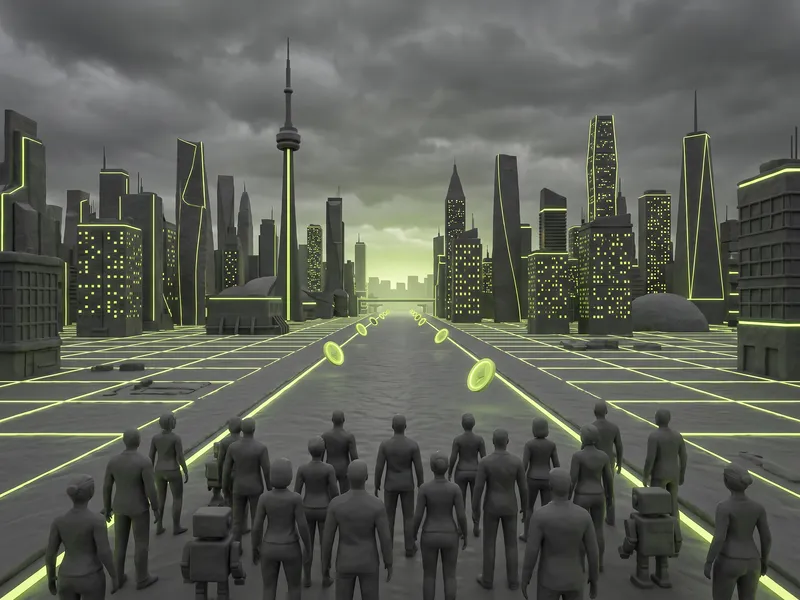
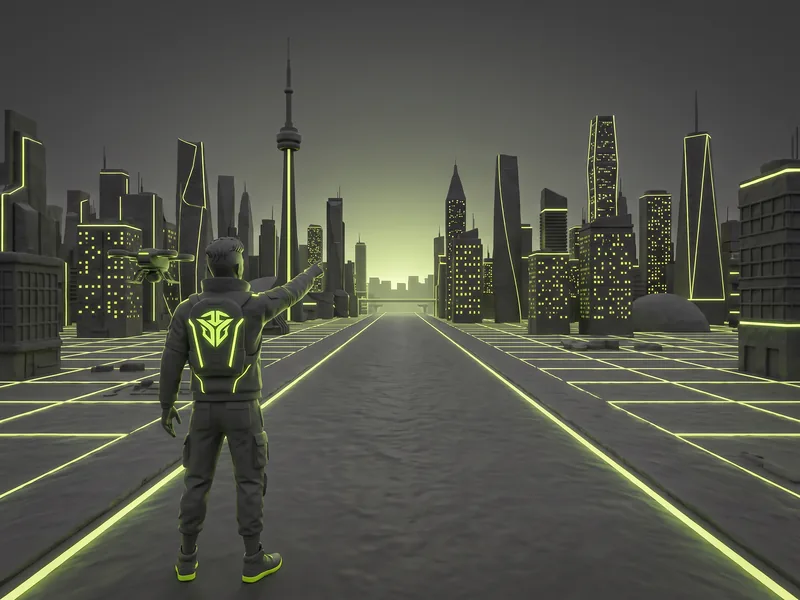
Кейс Metaverse: новое фото — герой со спины указывает на башню, тёмный графит с салатовым, alt

diff --git a/h10.html b/h10.html
@@ -571,7 +571,7 @@ html.js .hero.in h1 .ln:nth-child(2)>span{transition-delay:.12s}
         </div>
       </article>
       <article class="case">
-        <img class="shot" src="img/case-metaverse-800.webp" srcset="img/case-metaverse-800.webp 800w, img/case-metaverse-1200.webp 1200w" sizes="(max-width:860px) 100vw, 620px" width="1200" height="900" alt="Crowd of avatars facing a metaverse city with glowing land plots and floating tokens" loading="lazy" decoding="async">
+        <img class="shot" src="img/case-metaverse-800.webp" srcset="img/case-metaverse-800.webp 800w, img/case-metaverse-1200.webp 1200w" sizes="(max-width:860px) 100vw, 620px" width="1200" height="900" alt="Avatar with a glowing backpack pointing at a needle tower down a neon-lined avenue of a metaverse city" loading="lazy" decoding="async">
         <div class="body">
           <div class="top"><span>Crypto, Web3, GameFi</span><span>UAE</span></div>
           <h4>Launching a play-to-earn metaverse with creator Stories</h4>

diff --git a/h11.html b/h11.html
@@ -571,7 +571,7 @@ html.js .hero.in h1 .ln:nth-child(2)>span{transition-delay:.12s}
         </div>
       </article>
       <article class="case">
-        <img class="shot" src="img/case-metaverse-800.webp" srcset="img/case-metaverse-800.webp 800w, img/case-metaverse-1200.webp 1200w" sizes="(max-width:860px) 100vw, 620px" width="1200" height="900" alt="Crowd of avatars facing a metaverse city with glowing land plots and floating tokens" loading="lazy" decoding="async">
+        <img class="shot" src="img/case-metaverse-800.webp" srcset="img/case-metaverse-800.webp 800w, img/case-metaverse-1200.webp 1200w" sizes="(max-width:860px) 100vw, 620px" width="1200" height="900" alt="Avatar with a glowing backpack pointing at a needle tower down a neon-lined avenue of a metaverse city" loading="lazy" decoding="async">
         <div class="body">
           <div class="top"><span>Crypto, Web3, GameFi</span><span>UAE</span></div>
           <h4>Launching a play-to-earn metaverse with creator Stories</h4>

diff --git a/h12.html b/h12.html
@@ -571,7 +571,7 @@ html.js .hero.in h1 .ln:nth-child(2)>span{transition-delay:.12s}
         </div>
       </article>
       <article class="case">
-        <img class="shot" src="img/case-metaverse-800.webp" srcset="img/case-metaverse-800.webp 800w, img/case-metaverse-1200.webp 1200w" sizes="(max-width:860px) 100vw, 620px" width="1200" height="900" alt="Crowd of avatars facing a metaverse city with glowing land plots and floating tokens" loading="lazy" decoding="async">
+        <img class="shot" src="img/case-metaverse-800.webp" srcset="img/case-metaverse-800.webp 800w, img/case-metaverse-1200.webp 1200w" sizes="(max-width:860px) 100vw, 620px" width="1200" height="900" alt="Avatar with a glowing backpack pointing at a needle tower down a neon-lined avenue of a metaverse city" loading="lazy" decoding="async">
         <div class="body">
           <div class="top"><span>Crypto, Web3, GameFi</span><span>UAE</span></div>
           <h4>Launching a play-to-earn metaverse with creator Stories</h4>

diff --git a/h13.html b/h13.html
@@ -571,7 +571,7 @@ html.js .hero.in h1 .ln:nth-child(2)>span{transition-delay:.12s}
         </div>
       </article>
       <article class="case">
-        <img class="shot" src="img/case-metaverse-800.webp" srcset="img/case-metaverse-800.webp 800w, img/case-metaverse-1200.webp 1200w" sizes="(max-width:860px) 100vw, 620px" width="1200" height="900" alt="Crowd of avatars facing a metaverse city with glowing land plots and floating tokens" loading="lazy" decoding="async">
+        <img class="shot" src="img/case-metaverse-800.webp" srcset="img/case-metaverse-800.webp 800w, img/case-metaverse-1200.webp 1200w" sizes="(max-width:860px) 100vw, 620px" width="1200" height="900" alt="Avatar with a glowing backpack pointing at a needle tower down a neon-lined avenue of a metaverse city" loading="lazy" decoding="async">
         <div class="body">
           <div class="top"><span>Crypto, Web3, GameFi</span><span>UAE</span></div>
           <h4>Launching a play-to-earn metaverse with creator Stories</h4>

diff --git a/h14.html b/h14.html
@@ -575,7 +575,7 @@ html.js .hero.in h1 .ln:nth-child(2)>span{transition-delay:.12s}
         </div>
       </article>
       <article class="case">
-        <img class="shot" src="img/case-metaverse-800.webp" srcset="img/case-metaverse-800.webp 800w, img/case-metaverse-1200.webp 1200w" sizes="(max-width:860px) 100vw, 620px" width="1200" height="900" alt="Crowd of avatars facing a metaverse city with glowing land plots and floating tokens" loading="lazy" decoding="async">
+        <img class="shot" src="img/case-metaverse-800.webp" srcset="img/case-metaverse-800.webp 800w, img/case-metaverse-1200.webp 1200w" sizes="(max-width:860px) 100vw, 620px" width="1200" height="900" alt="Avatar with a glowing backpack pointing at a needle tower down a neon-lined avenue of a metaverse city" loading="lazy" decoding="async">
         <div class="body">
           <div class="top"><span>Crypto, Web3, GameFi</span><span>UAE</span></div>
           <h4>Launching a play-to-earn metaverse with creator Stories</h4>

diff --git a/h15.html b/h15.html
@@ -562,7 +562,7 @@ html.js .hero.in h1 .ln:nth-child(2)>span{transition-delay:.12s}
         </div>
       </article>
       <article class="case">
-        <img class="shot" src="img/case-metaverse-800.webp" srcset="img/case-metaverse-800.webp 800w, img/case-metaverse-1200.webp 1200w" sizes="(max-width:860px) 100vw, 620px" width="1200" height="900" alt="Crowd of avatars facing a metaverse city with glowing land plots and floating tokens" loading="lazy" decoding="async">
+        <img class="shot" src="img/case-metaverse-800.webp" srcset="img/case-metaverse-800.webp 800w, img/case-metaverse-1200.webp 1200w" sizes="(max-width:860px) 100vw, 620px" width="1200" height="900" alt="Avatar with a glowing backpack pointing at a needle tower down a neon-lined avenue of a metaverse city" loading="lazy" decoding="async">
         <div class="body">
           <div class="top"><span>Crypto, Web3, GameFi</span><span>UAE</span></div>
           <h4>Launching a play-to-earn metaverse with creator Stories</h4>

diff --git a/h16.html b/h16.html
@@ -571,7 +571,7 @@ html.js .hero.in h1 .ln:nth-child(2)>span{transition-delay:.12s}
         </div>
       </article>
       <article class="case">
-        <img class="shot" src="img/case-metaverse-800.webp" srcset="img/case-metaverse-800.webp 800w, img/case-metaverse-1200.webp 1200w" sizes="(max-width:860px) 100vw, 620px" width="1200" height="900" alt="Crowd of avatars facing a metaverse city with glowing land plots and floating tokens" loading="lazy" decoding="async">
+        <img class="shot" src="img/case-metaverse-800.webp" srcset="img/case-metaverse-800.webp 800w, img/case-metaverse-1200.webp 1200w" sizes="(max-width:860px) 100vw, 620px" width="1200" height="900" alt="Avatar with a glowing backpack pointing at a needle tower down a neon-lined avenue of a metaverse city" loading="lazy" decoding="async">
         <div class="body">
           <div class="top"><span>Crypto, Web3, GameFi</span><span>UAE</span></div>
           <h4>Launching a play-to-earn metaverse with creator Stories</h4>

diff --git a/h17.html b/h17.html
@@ -567,7 +567,7 @@ html.js .hero.in h1 .ln:nth-child(2)>span{transition-delay:.12s}
         </div>
       </article>
       <article class="case">
-        <img class="shot" src="img/case-metaverse-800.webp" srcset="img/case-metaverse-800.webp 800w, img/case-metaverse-1200.webp 1200w" sizes="(max-width:860px) 100vw, 620px" width="1200" height="900" alt="Crowd of avatars facing a metaverse city with glowing land plots and floating tokens" loading="lazy" decoding="async">
+        <img class="shot" src="img/case-metaverse-800.webp" srcset="img/case-metaverse-800.webp 800w, img/case-metaverse-1200.webp 1200w" sizes="(max-width:860px) 100vw, 620px" width="1200" height="900" alt="Avatar with a glowing backpack pointing at a needle tower down a neon-lined avenue of a metaverse city" loading="lazy" decoding="async">
         <div class="body">
           <div class="top"><span>Crypto, Web3, GameFi</span><span>UAE</span></div>
           <h4>Launching a play-to-earn metaverse with creator Stories</h4>

diff --git a/h2.html b/h2.html
@@ -577,7 +577,7 @@ html.js .hero.in h1 .ln:nth-child(2)>span{transition-delay:.12s}
         </div>
       </article>
       <article class="case">
-        <img class="shot" src="img/case-metaverse-800.webp" srcset="img/case-metaverse-800.webp 800w, img/case-metaverse-1200.webp 1200w" sizes="(max-width:860px) 100vw, 620px" width="1200" height="900" alt="Crowd of avatars facing a metaverse city with glowing land plots and floating tokens" loading="lazy" decoding="async">
+        <img class="shot" src="img/case-metaverse-800.webp" srcset="img/case-metaverse-800.webp 800w, img/case-metaverse-1200.webp 1200w" sizes="(max-width:860px) 100vw, 620px" width="1200" height="900" alt="Avatar with a glowing backpack pointing at a needle tower down a neon-lined avenue of a metaverse city" loading="lazy" decoding="async">
         <div class="body">
           <div class="top"><span>Crypto, Web3, GameFi</span><span>UAE</span></div>
           <h4>Launching a play-to-earn metaverse with creator Stories</h4>

diff --git a/h3.html b/h3.html
@@ -577,7 +577,7 @@ html.js .hero.in h1 .ln:nth-child(2)>span{transition-delay:.12s}
         </div>
       </article>
       <article class="case">
-        <img class="shot" src="img/case-metaverse-800.webp" srcset="img/case-metaverse-800.webp 800w, img/case-metaverse-1200.webp 1200w" sizes="(max-width:860px) 100vw, 620px" width="1200" height="900" alt="Crowd of avatars facing a metaverse city with glowing land plots and floating tokens" loading="lazy" decoding="async">
+        <img class="shot" src="img/case-metaverse-800.webp" srcset="img/case-metaverse-800.webp 800w, img/case-metaverse-1200.webp 1200w" sizes="(max-width:860px) 100vw, 620px" width="1200" height="900" alt="Avatar with a glowing backpack pointing at a needle tower down a neon-lined avenue of a metaverse city" loading="lazy" decoding="async">
         <div class="body">
           <div class="top"><span>Crypto, Web3, GameFi</span><span>UAE</span></div>
           <h4>Launching a play-to-earn metaverse with creator Stories</h4>

diff --git a/h4.html b/h4.html
@@ -572,7 +572,7 @@ html.js .hero.in h1 .ln:nth-child(2)>span{transition-delay:.12s}
         </div>
       </article>
       <article class="case">
-        <img class="shot" src="img/case-metaverse-800.webp" srcset="img/case-metaverse-800.webp 800w, img/case-metaverse-1200.webp 1200w" sizes="(max-width:860px) 100vw, 620px" width="1200" height="900" alt="Crowd of avatars facing a metaverse city with glowing land plots and floating tokens" loading="lazy" decoding="async">
+        <img class="shot" src="img/case-metaverse-800.webp" srcset="img/case-metaverse-800.webp 800w, img/case-metaverse-1200.webp 1200w" sizes="(max-width:860px) 100vw, 620px" width="1200" height="900" alt="Avatar with a glowing backpack pointing at a needle tower down a neon-lined avenue of a metaverse city" loading="lazy" decoding="async">
         <div class="body">
           <div class="top"><span>Crypto, Web3, GameFi</span><span>UAE</span></div>
           <h4>Launching a play-to-earn metaverse with creator Stories</h4>

diff --git a/h5.html b/h5.html
@@ -576,7 +576,7 @@ html.js .hero.in h1 .ln:nth-child(2)>span{transition-delay:.12s}
         </div>
       </article>
       <article class="case">
-        <img class="shot" src="img/case-metaverse-800.webp" srcset="img/case-metaverse-800.webp 800w, img/case-metaverse-1200.webp 1200w" sizes="(max-width:860px) 100vw, 620px" width="1200" height="900" alt="Crowd of avatars facing a metaverse city with glowing land plots and floating tokens" loading="lazy" decoding="async">
+        <img class="shot" src="img/case-metaverse-800.webp" srcset="img/case-metaverse-800.webp 800w, img/case-metaverse-1200.webp 1200w" sizes="(max-width:860px) 100vw, 620px" width="1200" height="900" alt="Avatar with a glowing backpack pointing at a needle tower down a neon-lined avenue of a metaverse city" loading="lazy" decoding="async">
         <div class="body">
           <div class="top"><span>Crypto, Web3, GameFi</span><span>UAE</span></div>
           <h4>Launching a play-to-earn metaverse with creator Stories</h4>
